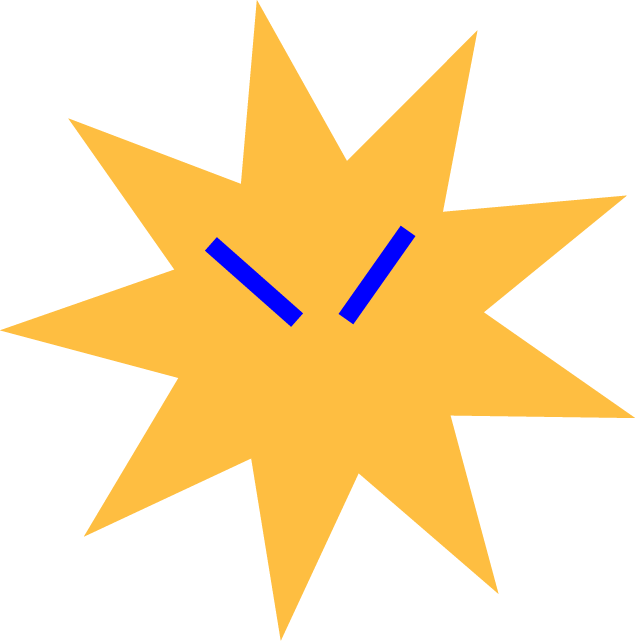
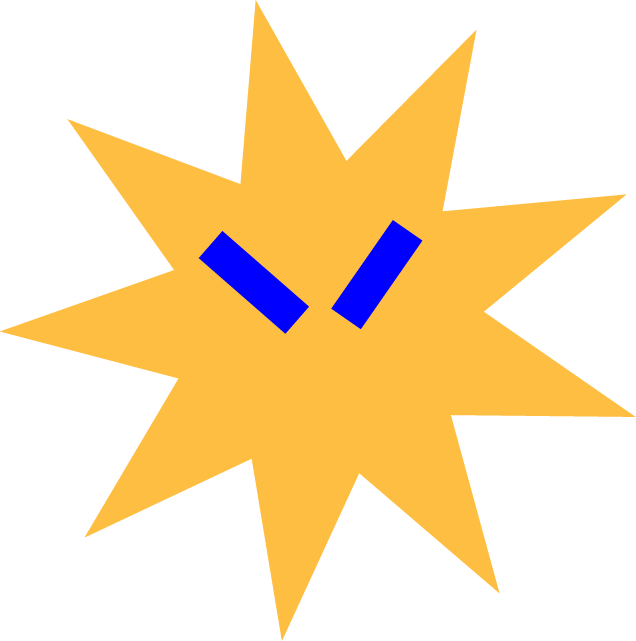
instructions, exit button, whiskers

diff --git a/styles/style.css b/styles/style.css
@@ -71,13 +71,14 @@ p{
     background-size: auto;
     animation: slide 6s linear infinite;
   }
+  #instructions-image{
+    position: fixed;
+    top: 50%;
+    left: 50%;
+    width: 500px;
+    transform: translate(-50%, -50%);
+  }
 
-  /* #game-screen {
-    display: none;
-    align-content: center;
-    padding: 20px 0px;
-
-  } */
   @keyframes slide {
     0% {
       background-position: 0px 0px;
@@ -87,6 +88,52 @@ p{
     }
   }
 
+  .header{
+    display: flex;
+    flex-direction: row;
+    justify-content: space-between;
+    padding-right: 220px;
+    font-size: 24px;
+    font-weight:600;
+  }
+  .exit{
+    display: flex;
+    flex-direction: column;
+    padding: 30px;
+    cursor: pointer;
+  }
+  .line{
+    width: 50px;
+    height: 5px;
+    background-color: white;
+    transition: transform 1s ease;
+  }
+  .first{
+    transform-origin: center;
+    transform: rotate(40deg);
+  }
+  .second{
+    transform-origin: center;
+    transform: rotate(140deg);
+    position: relative;
+    top:-5px;
+  }
+  .third{
+    transform-origin: center;
+    transform: rotate(140deg);
+    position: relative;
+    top:-10px;
+  }
+  .exit:hover .first{
+    transform: rotate(-25deg);
+  }
+  .exit:hover .second{
+    transform:rotate(-155deg);
+  }
+  .exit:hover .third{
+    transform:rotate(0deg);
+  }
+  
   /* -----player---- */
 
 .player {
@@ -116,3 +163,30 @@ p{
   background-color: #ff2500; 
   border-radius: 50%; 
 }
+.head::before,
+.head::after {
+  content: '';
+  position: absolute;
+  top: 20px;
+  background-size: cover;
+}
+
+.head::before {
+  width: 90px;
+  height: 72px;
+  left: 10px;
+  background-image: url('../images/w_left.png'); 
+}
+
+.head::after {
+  width: 93px;
+  height: 64px;
+  right: 10px;
+  background-image: url('../images/w_right.png'); 
+}
+
+
+
+
+
+

diff --git a/js/script.js b/js/script.js
@@ -1,6 +1,8 @@
 window.onload = function () {
     const startButton = document.getElementById("start-button");
     const restartButton = document.getElementById("restart-button");
+    const exitButton = document.getElementById("exit-button");
+    const instructionsImage = document.getElementById("instructions-image");
     let game 
   
     startButton.addEventListener("click", () => {
@@ -12,6 +14,9 @@ window.onload = function () {
       console.log("start game");
       game = new Game();
       game.start();
+      setTimeout(() => {
+        instructionsImage.style.display = "none";
+    }, 4000); 
     }
 
     document.addEventListener('keydown', event => {
@@ -35,6 +40,12 @@ window.onload = function () {
       // game.food.element.remove()
       // startGame();
       location.reload(); 
-
   });
+
+  exitButton.addEventListener('click', () => {
+    // game.player.element.remove()
+    // game.food.element.remove()
+    // startGame();
+    location.reload(); 
+});
 }

diff --git a/index.html b/index.html
@@ -14,15 +14,21 @@
         <div class = "text-window">
             <p>Shitty the Cat escaped from his house.<br> Help him survive!</p>
             <div class = "button-holder">
-                <button class="button" id="instructions-button">Instructions</button>
+                <!-- <button class="button" id="instructions-button">Instructions</button> -->
                 <button class="button" id="start-button">Start</button>
             </div>
         </div>
       </div>
       <div id="game-screen">
-        <div>
+        <div class="header">
           <p>Score: <span id="score">0</span></p>
+          <div class="exit" id="exit-button">
+            <div class="line first"></div>
+            <div class="line second"></div>
+            <div class="line third"></div>
+          </div>
         </div>
+        <img id="instructions-image" src="./images/space.gif" alt="Instructions">
       </div>
       <div id="game-end">
         <div class = "text-window">
